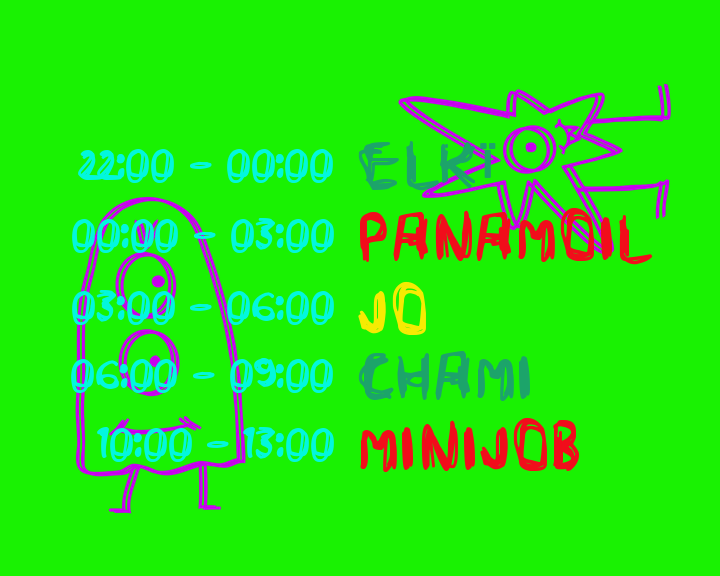
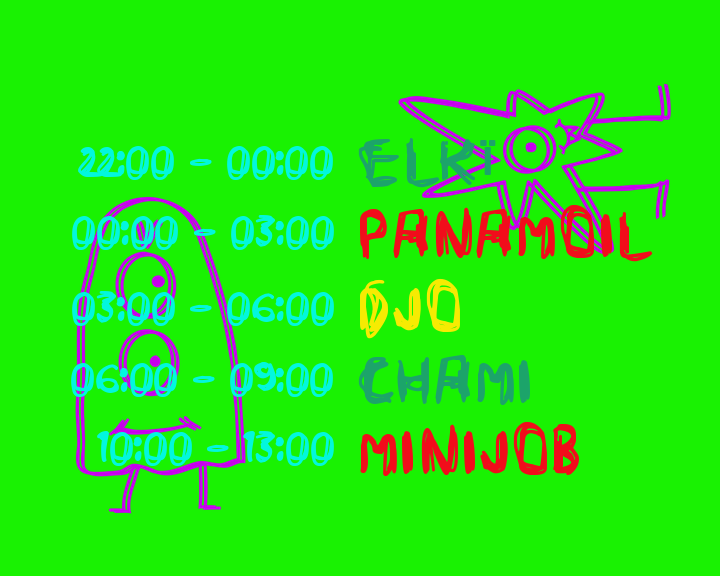
fix: rename DJ Jo to Djo and regenerate day2 HDMI + PAL frames

diff --git a/mnj-lineup/js/main.js b/mnj-lineup/js/main.js
@@ -16,7 +16,7 @@ const LINEUPS = {
     slots: [
       { day: 'Saturday', start: '22:00', end: '00:00', dj: 'Elkï' },
       { day: 'Sunday',   start: '00:00', end: '03:00', dj: 'Panamoil' },
-      { day: 'Sunday',   start: '03:00', end: '06:00', dj: 'Jo' },
+      { day: 'Sunday',   start: '03:00', end: '06:00', dj: 'Djo' },
       { day: 'Sunday',   start: '06:00', end: '09:00', dj: 'Chami' },
       { day: 'Sunday',   start: '10:00', end: '13:00', dj: 'Minijob' },
     ],

diff --git a/mnj-lineup/tools/gen_frames.py b/mnj-lineup/tools/gen_frames.py
@@ -60,7 +60,7 @@ LINEUPS = {
     2: [
         ("22:00 - 00:00", "Elkï"),
         ("00:00 - 03:00", "Panamoil"),
-        ("03:00 - 06:00", "Jo"),
+        ("03:00 - 06:00", "Djo"),
         ("06:00 - 09:00", "Chami"),
         ("10:00 - 13:00", "Minijob"),
     ],
